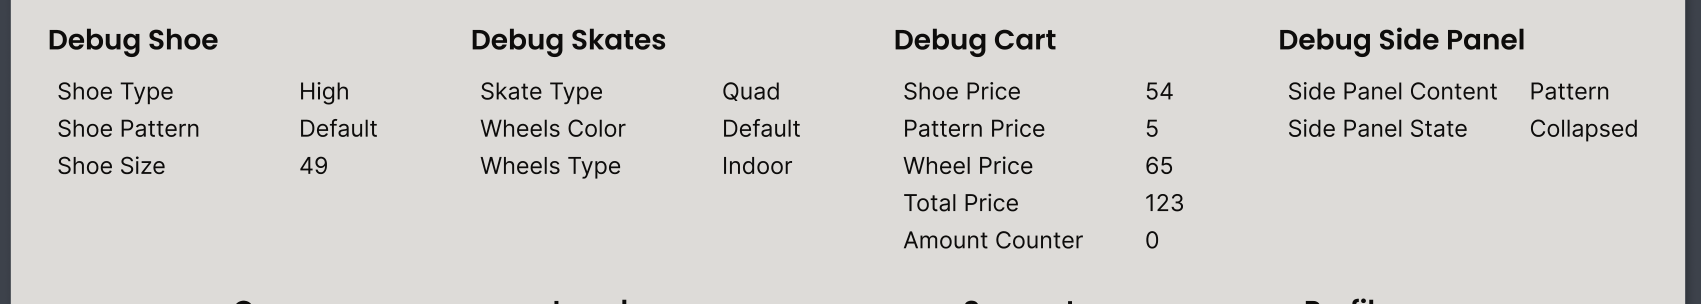
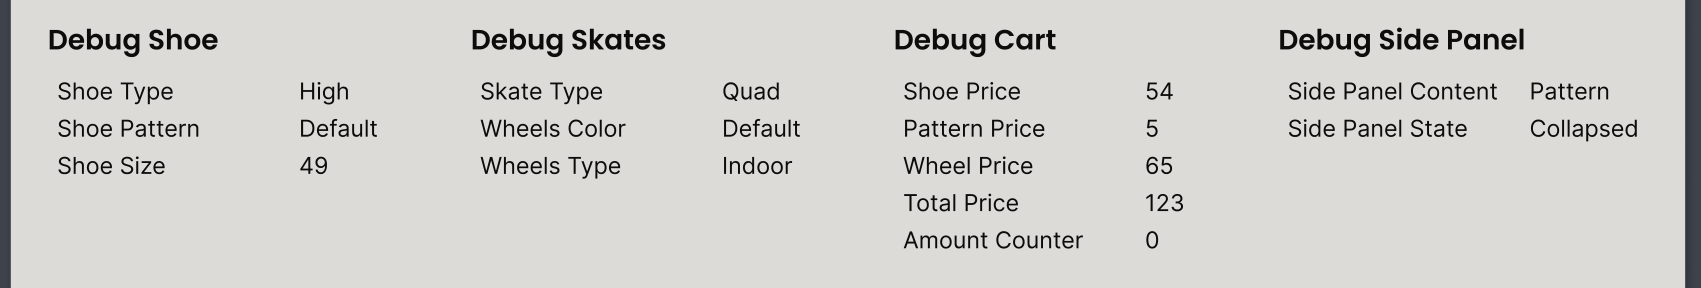
feat: the option tree becomes parts, the variables get shown, and the before state goes

diff --git a/src/content/projects.ts b/src/content/projects.ts
@@ -351,18 +351,20 @@ export const projects: readonly Project[] = [
         ],
       },
       {
-        // Sits above the next section rather than inside it, because that
-        // section closes on "the figure below carries it in full" pointing at
-        // the architecture embed. Putting this between the two would silently
-        // repoint that sentence at the wrong figure.
+        // Replaces the option-tree screenshot that stood here until 2026-08-05,
+        // which was a picture of text on a page whose problem was that it had
+        // too few pictures. Nothing is lost by dropping it: the prose in the
+        // next section already enumerates the same option space, down to the
+        // ball bearings, so the tree was restating a paragraph in a lower
+        // resolution.
         kind: 'figure',
-        heading: 'What the system had to survive',
+        heading: 'What you can actually change',
         caption:
-          'The option space as we mapped it at the lo-fi stage, down to ball bearings and inline sub-type by wheel count. A working note rather than a deliverable, and the thing the proof of concept below had to hold before it was worth scaling.',
-        src: '/figures/rollhaus-options.png',
-        alt: 'A note from the design file headed Customization Options, listing a nested tree: shoe model with high top, low top and a closing mechanism of laces or straps; size; pattern with a base colour set and an overlay; then base type branching into quad, inline and ice, the quad and inline each carrying their own wheel options and ball bearings.',
+          'The parts, as they are built in the file. Two lasts and eight patterns make sixteen boots, three mounts and eight wheel colourways multiply that again, and none of it is a screen. The dashed outlines are Figma component-set boundaries, left in because they are what makes these sets rather than a page of product shots.',
+        src: '/figures/rollhaus-atoms.jpg',
+        alt: 'Three groups of product renders on a dark canvas. On the left, three mounts: an inline frame, a quad plate and an ice blade. In the middle, two columns of eight, high tops beside low shoes, running through plain cream, tartan, retro stripe, checkerboard, floral, colourblock, polka dot and a wave print. On the right, wheel sets in eight colourways, each drawn as a quad pair and as an inline row.',
         width: 1401,
-        height: 2299,
+        height: 1230,
       },
       {
         kind: 'prose',
@@ -371,8 +373,40 @@ export const projects: readonly Project[] = [
           'We wrote four design principles in week one, from a user story and a moodboard, and checked components against them. Highlight Individuality, Flow Over Flash, Guidance Over Selling, Design for Joy. Writing principles down is ordinary practice and it bought us something modest but real: each one names a tradeoff we would otherwise have argued about every week. Flow Over Flash settles personality against usability, so usability wins the structure and the personality lives in the copy. Guidance Over Selling settles conversion pressure against trust, which is why the editor recommends and never pushes.',
           'That gave the copy a rule of its own. The interface talks like a knowledgeable skate friend rather than a salesperson: "Nice choice. Now pick your wheels." moves someone forward without inventing a points system, and progress reads as readiness, "Your setup is 80% complete", instead of as a checklist.',
           'Before committing to the full editor I built a small working version as a go or no-go gate. The product gave that gate something concrete to survive: shoe model, closing mechanism, size, patterns and colour sets, three skate types each with their own wheels and brakes, and per wheel the size, material, hardness and colour, down to the ball bearings. Either one variable system could carry all of that or it would collapse as soon as the product got complex. It held, so we scaled it.',
-          'The mechanism is the core of the project and the figure below carries it in full. The part worth naming here is the slot system: one Base Card, slotted differently, serves the landing page, the cart, the checkout and the confirmation. Peers and the instructor arrived at the same note independently, that talking about atomic design in general terms buried the decision that was actually ours.',
+          'The mechanism is the core of the project, and the three figures below carry it: what the variables are, what a screen reads off them, and what one card does across four screens. The part worth naming here is the slot system: one Base Card, slotted differently, serves the landing page, the cart, the checkout and the confirmation. Peers and the instructor arrived at the same note independently, that talking about atomic design in general terms buried the decision that was actually ours.',
         ],
+      },
+      {
+        // The strongest artifact in this case study, and Leonid offered it with
+        // "though I dont know how usefull that is". It is the only evidence
+        // anywhere for modes, which every earlier version of this page could
+        // assert and never show.
+        //
+        // A full-width figure rather than half of a `comparison` with the debug
+        // readout below: both images are wide landscape strips, and the
+        // comparison renderer is a two-column grid that would put each of them
+        // near 350px and make both unreadable.
+        kind: 'figure',
+        heading: 'Where the configuration is defined',
+        caption:
+          'Eleven collections, nine of them named for what they drive, and the Wheels collection open with its modes as columns. Green sets the colour, the outdoor type and 26 euro together. Black sets black, outdoor and 17. One switch, three linked values, which is the whole of what modes are doing in this file.',
+        src: '/figures/rollhaus-variables.png',
+        alt: 'The Figma variables panel. A left rail lists eleven collections: Color 31, System 5, an unnamed empty one, Cart 5, EditorSidePanel 2, Test Radio Buttons 5, a second unnamed empty one, Pattern 2, Shoe 3, Skates 2, and Wheels 3, which is selected. The table shows three variables, WheelColor, WheelType and WheelPrice, across seven mode columns named Default, Yellow, Green, Water blue, Blue, Orange and Black. WheelPrice reads 23, 23, 26, 26, 23, 21 and 17 across them.',
+        width: 1600,
+        // 385 rather than 386: measured off the written file, because the zoom
+        // lands a fraction under a whole pixel. next/image uses this only for
+        // the aspect ratio, so the measurement wins and the crop stays.
+        height: 385,
+      },
+      {
+        kind: 'figure',
+        heading: 'And where it is read',
+        caption:
+          'A debug panel left on the cart screen during the build. The same state the collections above define, grouped by what it drives, on a screen that is using it.',
+        src: '/figures/rollhaus-debug.png',
+        alt: 'A readout in four columns headed Debug Shoe, Debug Skates, Debug Cart and Debug Side Panel. Shoe reads Shoe Type High, Shoe Pattern Default, Shoe Size 49. Skates reads Skate Type Quad, Wheels Color Default, Wheels Type Indoor. Cart reads Shoe Price 54, Pattern Price 5, Wheel Price 65, Total Price 123, Amount Counter 0. Side Panel reads Side Panel Content Pattern, Side Panel State Collapsed.',
+        width: 1701,
+        height: 288,
       },
       {
         kind: 'embed',
@@ -387,40 +421,20 @@ export const projects: readonly Project[] = [
         body: [
           'In week three we put the prototype through Maze, 18 unmoderated tasks and one moderated session. The shopping flow held. Cart to confirmation came back at a 100% success rate and people described it as straightforward. The editor did not hold: editing a skate produced a 68% misclick rate.',
           'The cause was structural rather than visual. People could not tell the customization categories apart, so they clicked around to find out what was editable and lost their place between tasks. We put the findings on an affinity map and a prioritization matrix, which pushed the side panel to the top of the list.',
-          // Category names corrected 2026-07-31 to the ones on the screen in
-          // the figure below, which reads Pattern and Skates. The earlier
+          // Category names corrected 2026-07-31 to the ones on the screen. They
+          // are the four headings in the progression at the top of this page,
+          // Select Your Shoe Model / Pattern / Skates / Wheels. The earlier
           // "Colour, Skate Type" was a paraphrase, and a paraphrase that
-          // disagrees with the image two paragraphs down is the kind of small
-          // thing the reader this page is written for will notice.
-          'So we re-cut it. The panel became a category selector, Shoe Model, Pattern, Skates and Wheels, sitting above an option grid, in place of one list that merged unrelated options. Reading the results as a request for visual tweaks would have been much cheaper. Re-cutting the information hierarchy was the more expensive call and the right one.',
-        ],
-      },
-      {
-        // Captioned as two panel structures, not as a test artefact. The merged
-        // column demonstrably exists in the design file, but nothing in the
-        // sources proves it is the exact screen the 18 Maze participants
-        // clicked, and the caption may not quietly imply that it is.
-        // Guardrail 1. Leonid, 2026-07-31; the open item is in
-        // `scripts/extract-figures.py` next to the crop.
-        kind: 'comparison',
-        heading: 'The side panel, before and after',
-        caption:
-          'Two panel structures from the design file. One merges shoe, pattern, skates and wheels into a single scroll, so nothing tells you where one category ends. The other gives each its own step, and the step you are on is the ringed icon in the row above the grid.',
-        items: [
-          {
-            label: 'One merged column',
-            src: '/figures/rollhaus-panel-before.jpg',
-            alt: 'A narrow dark panel running as one continuous column: a Shoe heading over two boot options, then Pattern at 5 euro over eight swatches, then Skates over three options, then Wheels at 23 euro over eight more, with nothing dividing one category from the next.',
-            width: 701,
-            height: 2501,
-          },
-          {
-            label: 'Four categories',
-            src: '/figures/rollhaus-panel-after.jpg',
-            alt: 'The reworked panel in four headed sections, Select Your Shoe Model, Select Your Pattern, Select Your Skates and Select Your Wheels. Each heading is paired with the same row of four icons, the icon for that section ringed and the line connecting them filled up to it, above only the options belonging to that one category.',
-            width: 901,
-            height: 2631,
-          },
+          // disagrees with an image on the same page is the kind of small thing
+          // the reader this page is written for will notice.
+          //
+          // The final sentence took over from the before/after comparison that
+          // followed this section until 2026-08-05. Leonid's call was to drop
+          // the before state; with it gone the after state had nothing to be a
+          // pair with, and it is already the panel in all four editor
+          // screenshots above, so the argument is made by pointing rather than
+          // by shipping a fifth picture of the same panel.
+          'So we re-cut it. The panel became a category selector, Shoe Model, Pattern, Skates and Wheels, sitting above an option grid, in place of one list that merged unrelated options. Reading the results as a request for visual tweaks would have been much cheaper. Re-cutting the information hierarchy was the more expensive call and the right one. It is the panel in every screenshot above.',
         ],
       },
       {

diff --git a/scripts/extract-figures.py b/scripts/extract-figures.py
@@ -219,7 +219,7 @@ FIGURES = [
         "project": "rollhaus",
         "pdf": HIFI,
         "page": 0,
-        "clip": [0.4190, 0.2250, 0.5530, 0.2620],
+        "clip": [0.4190, 0.2250, 0.5530, 0.2600],
         "width": 1700,
         "why": (
             "The debug panel left on the cart screen during the build, printing "
@@ -228,7 +228,8 @@ FIGURES = [
             "page it was cut from no longer exists. It is the second half of the "
             "variables pair: the panel above defines the state, this shows a "
             "product screen reading it. PNG for the same reason the variables "
-            "crop is."
+            "crop is. Bottom edge is 0.2600 rather than the 0.2620 first tried, "
+            "which cut through the tops of the next row of labels. Do not widen."
         ),
     },
     {
